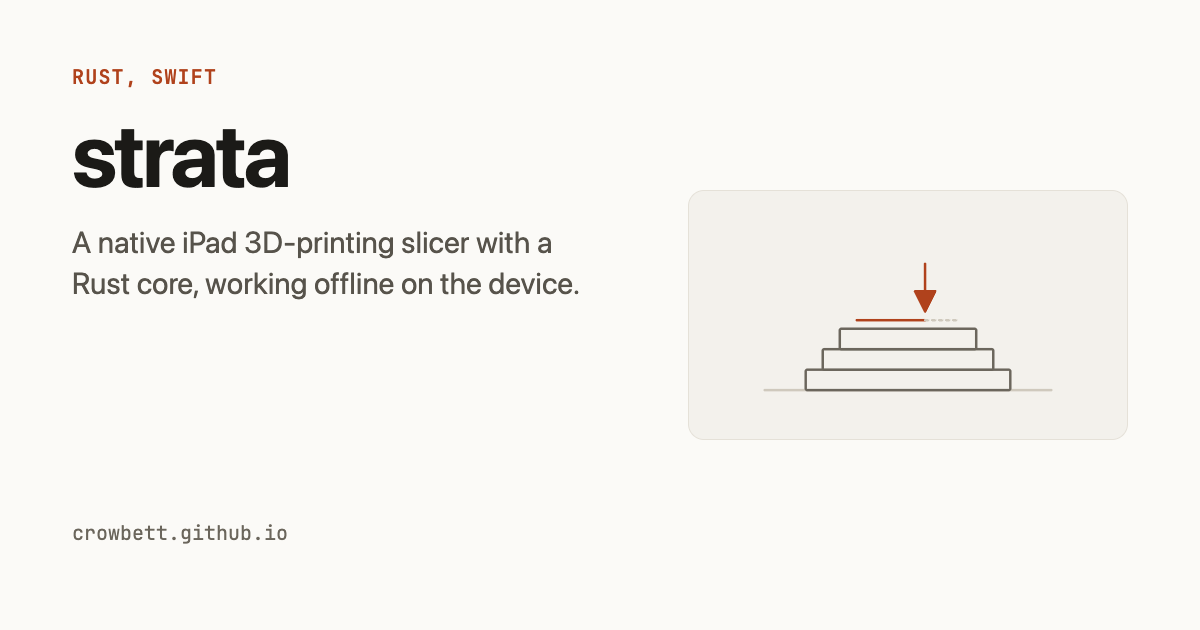
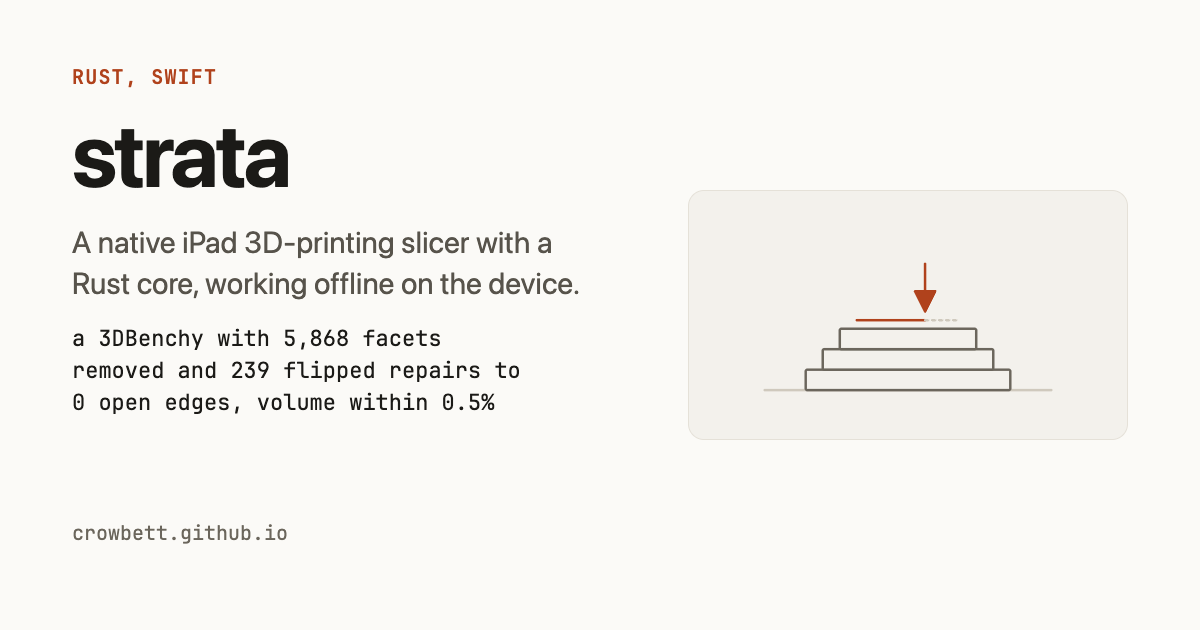
Give strata a measured evidence line (C4)

Changed region(s): [[0.0617, 0.5127, 0.4317, 0.6635]]

diff --git a/content/projects/strata.md b/content/projects/strata.md
@@ -6,6 +6,8 @@ tags: geometry, slicing, G-code, UniFFI, SwiftUI
 repo:
 demo: planned
 order: 8
+metric: a 3DBenchy with 5,868 facets removed and 239 flipped repairs to 0 open edges, volume within 0.5%
+metric_source: docs/features.md, mesh repair (measured)
 ---
 strata slices STL models into G-code on the iPad itself: perimeters, infill, a Metal build-plate view,
 part placement, and printing straight from the app over Moonraker, OctoPrint and PrusaLink.
